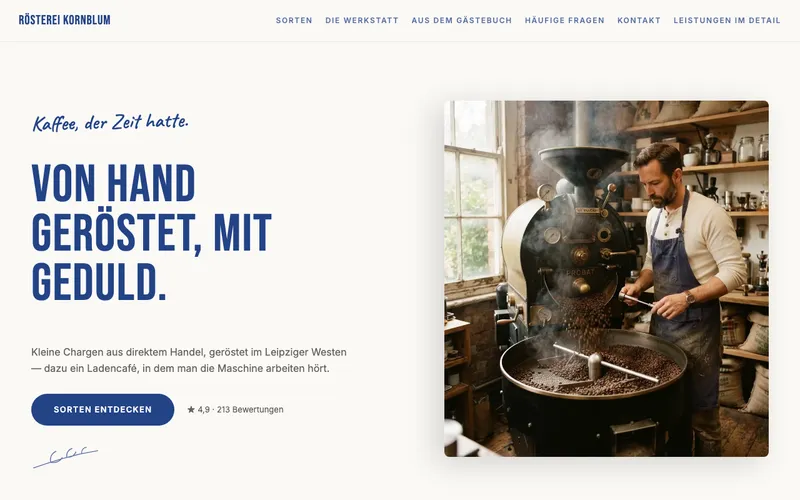
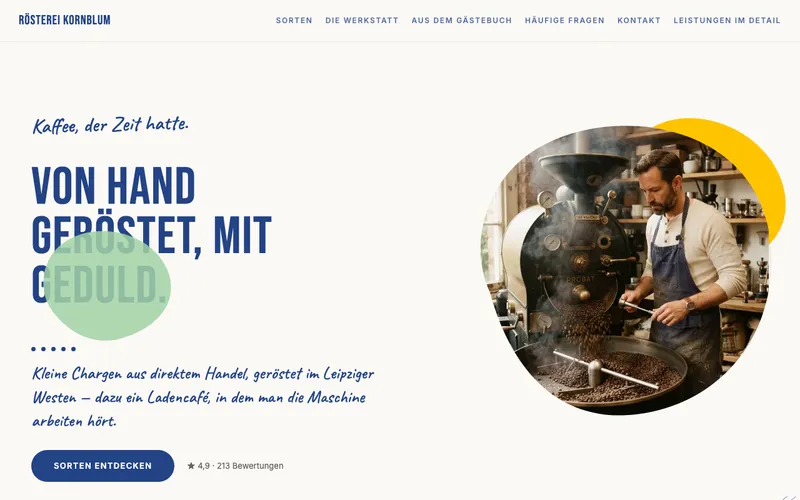
polish(ernte): Pa'lais-Signatur geschärft — organische Blob-Masken (clipPath), sichtbare Honig-/Mint-Blobs, Dots, Caveat-Unterzeile, große botanische Zweige

diff --git a/client/src/components/site/packs/ernte/css.ts b/client/src/components/site/packs/ernte/css.ts
@@ -7,22 +7,22 @@ export const ERNTE_CSS = `
 .pb-er-nav-links a{color:var(--pb-accent);opacity:.75;transition:opacity .15s}
 .pb-er-nav-links a:hover,.pb-er-nav-links a:focus-visible,.pb-er-nav-links a[aria-current="page"]{opacity:1}
 .pb-er-nav-links a[aria-current="page"]{border-bottom:2px solid var(--pb-accent-2)}
-.pb-er-hero{position:relative;display:grid;grid-template-columns:minmax(0,6.5fr) minmax(0,5.5fr);gap:48px;align-items:center;max-width:1180px;margin:0 auto;padding:72px 30px 88px}
+.pb-er-hero{position:relative;display:grid;grid-template-columns:minmax(0,6.5fr) minmax(0,5.5fr);gap:48px;align-items:center;max-width:1180px;margin:0 auto;padding:76px 30px 96px}\n.pb-er-hero>.pb-er-blob-sage{position:absolute;left:-160px;top:38%;width:280px;height:280px;inset:auto;z-index:0;opacity:.85}\n.pb-er-hero-deco{position:absolute;right:-30px;bottom:-34px;width:230px;height:184px;color:var(--pb-accent);opacity:.5;z-index:0;pointer-events:none}
 .pb-er-script{font-family:var(--pb-font-utility);font-size:clamp(1.5rem,2.6vw,2.1rem);color:var(--pb-accent);transform:rotate(-1.5deg);transform-origin:left}
 .pb-er-hero h1{margin-top:10px;font-family:var(--pb-font-display);font-weight:400;font-size:var(--pb-hero-size);line-height:.95;letter-spacing:.02em;text-transform:uppercase;color:var(--pb-accent);max-width:15ch}
 .pb-ernte .pb-rich-accent{font-style:normal;color:var(--pb-accent);box-shadow:inset 0 -0.28em 0 var(--pb-accent-2)}
-.pb-er-sub{margin-top:18px;max-width:50ch;color:var(--pb-muted);font-size:16px}
-.pb-er-hero-actions{display:flex;align-items:center;gap:20px;margin-top:28px;flex-wrap:wrap}
+.pb-er-sub{margin-top:16px;max-width:44ch;font-family:var(--pb-font-utility);font-size:clamp(1.35rem,2.2vw,1.8rem);line-height:1.35;color:var(--pb-accent)}
+.pb-er-dots{display:flex;gap:9px;margin-top:16px}\n.pb-er-dots i{width:7px;height:7px;border-radius:50%;background:var(--pb-accent)}\n.pb-er-hero-actions{display:flex;align-items:center;gap:20px;margin-top:26px;flex-wrap:wrap}
 .pb-ernte a.pb-er-cta{display:inline-block;padding:15px 36px;background:var(--pb-accent);color:var(--pb-accent-contrast);border-radius:var(--pb-radius-button);font-weight:600;font-size:13px;letter-spacing:.1em;text-transform:uppercase;transition:transform .18s,box-shadow .18s}
 .pb-er-cta:hover,.pb-er-cta:focus-visible{transform:translateY(-2px);box-shadow:0 14px 28px color-mix(in srgb,var(--pb-accent) 28%,transparent)}
 .pb-er-rating{font-size:13px;color:var(--pb-muted)}
-.pb-er-sprig{width:110px;height:38px;color:var(--pb-accent)}
+.pb-er-sprig{width:150px;height:120px;color:var(--pb-accent)}
 .pb-er-hero-sprig{display:block;margin-top:34px;opacity:.75}
 .pb-er-hero-media{position:relative}
-.pb-er-blob{position:absolute;inset:-8% -6%;width:112%;height:116%;z-index:0}
+.pb-er-blob{position:absolute;inset:-8% -6%;width:112%;height:116%;z-index:0}\n.pb-er-hero-media .pb-er-blob{inset:auto;right:-13%;top:-11%;width:74%;height:70%;transform:rotate(18deg)}
 .pb-er-blob path{fill:var(--pb-accent-2)}
 .pb-er-blob-sage path{fill:#A2D3A6}
-.pb-er-hero-media img{position:relative;z-index:1;display:block;width:100%;aspect-ratio:4/4.4;object-fit:cover;border-radius:var(--pb-radius-card);box-shadow:-14px 10px 49px rgba(0,0,0,.16)}
+.pb-er-hero-media img{position:relative;z-index:1;display:block;width:100%;aspect-ratio:4/4.1;object-fit:cover;clip-path:url(#pb-er-clip-a);filter:drop-shadow(-10px 12px 26px rgba(0,0,0,.14))}
 .pb-er-section{max-width:1180px;margin:0 auto;padding:72px 30px;border-top:1px solid var(--pb-line)}
 .pb-er-title{font-family:var(--pb-font-display);font-weight:400;font-size:clamp(1.8rem,3.2vw,2.6rem);letter-spacing:.03em;text-transform:uppercase;color:var(--pb-accent)}
 .pb-er-intro{margin-top:12px;max-width:56ch;color:var(--pb-muted)}
@@ -36,7 +36,7 @@ export const ERNTE_CSS = `
 .pb-er-about>p:only-child{grid-column:1/-1}
 .pb-er-about p{max-width:62ch;font-size:15.5px}
 .pb-er-media{position:relative;display:block}
-.pb-er-media img{position:relative;z-index:1;display:block;width:100%;aspect-ratio:4/3.4;object-fit:cover;border-radius:var(--pb-radius-card);box-shadow:-14px 10px 49px rgba(0,0,0,.12)}
+.pb-er-media img{position:relative;z-index:1;display:block;width:100%;aspect-ratio:4/3.6;object-fit:cover;clip-path:url(#pb-er-clip-b);filter:drop-shadow(-10px 12px 24px rgba(0,0,0,.12))}\n.pb-er-media .pb-er-blob{inset:auto;left:-9%;bottom:-11%;width:58%;height:58%;transform:rotate(-10deg)}
 .pb-er-gallery{display:grid;grid-template-columns:repeat(auto-fit,minmax(240px,1fr));gap:20px;margin-top:32px}
 .pb-er-gallery img{width:100%;aspect-ratio:4/3;object-fit:cover;border-radius:var(--pb-radius-card)}
 .pb-er-quotes{display:grid;grid-template-columns:repeat(auto-fit,minmax(250px,1fr));gap:20px;margin-top:32px}
@@ -66,7 +66,7 @@ export const ERNTE_CSS = `
 .pb-er-menu-row p{font-size:13.5px;color:var(--pb-muted);max-width:40ch}
 .pb-er-menu-row .pb-er-price{margin-left:auto;margin-top:0;flex-shrink:0;white-space:nowrap}
 .pb-er-team{display:grid;grid-template-columns:repeat(auto-fit,minmax(200px,1fr));gap:24px;margin-top:32px}
-.pb-er-member img{width:100%;aspect-ratio:1/1;object-fit:cover;border-radius:var(--pb-radius-card);margin-bottom:12px}
+.pb-er-member img{width:100%;aspect-ratio:1/1;object-fit:cover;clip-path:url(#pb-er-clip-b);margin-bottom:12px}
 .pb-er-member strong{display:block;font-weight:600}
 .pb-er-member p{font-size:13px;color:var(--pb-muted)}
 .pb-er-cta-section .pb-er-cta{margin-top:24px}
@@ -89,6 +89,6 @@ export const ERNTE_CSS = `
 @keyframes pb-er-up{from{opacity:0;transform:translateY(14px)}to{opacity:1;transform:none}}
 @keyframes pb-er-bloom{from{transform:scale(.85);opacity:0}to{transform:none;opacity:1}}
 @media(prefers-reduced-motion:reduce){.pb-ernte *,.pb-ernte *::before,.pb-ernte *::after{animation:none!important;transition:none!important}}
-@media(max-width:880px){.pb-er-nav{padding:14px 18px}.pb-er-nav-links{display:none}.pb-er-hero{grid-template-columns:1fr;gap:36px;padding:44px 18px 60px}.pb-er-section{padding:52px 18px}.pb-er-about{grid-template-columns:1fr;gap:26px}.pb-er-about .pb-er-media{order:-1;max-width:420px}}
+@media(max-width:880px){.pb-er-nav{padding:14px 18px}.pb-er-nav-links{display:none}.pb-er-hero{grid-template-columns:1fr;gap:36px;padding:44px 18px 72px}.pb-er-hero>.pb-er-blob-sage{left:-120px;top:auto;bottom:24%;width:200px;height:200px}.pb-er-hero-deco{right:-16px;bottom:-20px;width:160px;height:128px}.pb-er-section{padding:52px 18px}.pb-er-about{grid-template-columns:1fr;gap:26px}.pb-er-about .pb-er-media{order:-1;max-width:420px}}
 @media(max-width:390px){.pb-er-hero{padding-left:14px;padding-right:14px}.pb-er-section{padding-left:14px;padding-right:14px}}
 `;

diff --git a/client/src/components/site/packs/ernte/index.tsx b/client/src/components/site/packs/ernte/index.tsx
@@ -71,22 +71,76 @@ function Blob({ tone }: { tone: "honey" | "sage" }) {
   );
 }
 
-/** Botanische Linien-Illustration (Zweig) in Indigo, 1.5px, ohne Füllung. */
+/**
+ * Botanische Linien-Illustration in Indigo — 1.5px Outline ohne Füllung,
+ * bewusst groß und über Ränder blutend (Pa'lais-Signatur: „Living
+ * Illustration").
+ */
 function Sprig({ className }: { className?: string }) {
   return (
     <svg
       className={className}
-      viewBox="0 0 120 40"
+      viewBox="0 0 200 160"
       fill="none"
       aria-hidden="true"
     >
       <path
-        d="M4 36C34 26 66 14 116 6M34 26c-2-8 2-16 9-19M34 26c8 2 16-1 20-8M62 17c-1-7 3-13 9-15M62 17c7 1 13-2 16-9M88 10c0-5 3-9 8-10"
+        d="M18 152C58 118 96 78 178 18M70 110c-8-18-4-38 10-50M70 110c18 6 38 0 48-16M112 74c-4-16 2-32 16-40M112 74c16 4 32-2 40-16M146 44c-2-12 4-22 14-26M146 44c12 2 22-2 28-12"
         stroke="currentColor"
         strokeWidth="1.5"
         strokeLinecap="round"
       />
+      <path
+        d="M80 100c-10 2-16 10-16 18M104 82c-10 0-18 6-20 14M132 58c-8-2-16 2-20 8"
+        stroke="currentColor"
+        strokeWidth="1.5"
+        strokeLinecap="round"
+        opacity=".55"
+      />
     </svg>
+  );
+}
+
+/**
+ * Organische Bild-Masken (Pa'lais: „wilde Ränder"): zwei Blob-Pfade als
+ * clipPath in objectBoundingBox-Einheiten (scale 1/200 des 200er-Pfads),
+ * einmal pro Seite unsichtbar definiert — CSS referenziert sie per url(#…).
+ */
+function BlobDefs() {
+  return (
+    <svg
+      aria-hidden="true"
+      focusable="false"
+      style={{ position: "absolute", width: 0, height: 0 }}
+    >
+      <defs>
+        <clipPath id="pb-er-clip-a" clipPathUnits="objectBoundingBox">
+          <path
+            transform="scale(0.005)"
+            d="M28 104C14 74 26 34 60 16c34-18 82-16 112 6 30 22 36 62 24 96-12 34-44 58-84 60-40 2-70-24-84-74Z"
+          />
+        </clipPath>
+        <clipPath id="pb-er-clip-b" clipPathUnits="objectBoundingBox">
+          <path
+            transform="scale(0.005) rotate(160 100 100)"
+            d="M28 104C14 74 26 34 60 16c34-18 82-16 112 6 30 22 36 62 24 96-12 34-44 58-84 60-40 2-70-24-84-74Z"
+          />
+        </clipPath>
+      </defs>
+    </svg>
+  );
+}
+
+/** Punkte-Reihe unter der Headline — kleines Pa'lais-Markenzeichen. */
+function Dots() {
+  return (
+    <span className="pb-er-dots" aria-hidden="true">
+      <i />
+      <i />
+      <i />
+      <i />
+      <i />
+    </span>
   );
 }
 
@@ -364,6 +418,7 @@ const ErntePage: React.FC<{
 
   return (
     <div className="pb-ernte">
+      <BlobDefs />
       <nav className="pb-er-nav">
         <span className="pb-er-logo">{renderLogo(data)}</span>
         <div className="pb-er-nav-links">
@@ -381,12 +436,15 @@ const ErntePage: React.FC<{
       </nav>
       {hero && (
         <section id={SECTION_ANCHORS.hero} className="pb-er-hero">
+          <Blob tone="sage" />
+          <Sprig className="pb-er-sprig pb-er-hero-deco" />
           <div className="pb-er-hero-copy" data-pb-slot={LAYOUT_SLOT.heroCopy}>
             {/* Script-Zeile nur, wenn sie nicht bloß die Headline dupliziert. */}
             {data.tagline && data.tagline !== hero.headline && (
               <p className="pb-er-script">{data.tagline}</p>
             )}
             <h1>{renderHeadline(hero.headline)}</h1>
+            <Dots />
             {hero.subheadline && (
               <p className="pb-er-sub">{rich(hero.subheadline)}</p>
             )}
@@ -403,7 +461,6 @@ const ErntePage: React.FC<{
                 </span>
               )}
             </div>
-            <Sprig className="pb-er-sprig pb-er-hero-sprig" />
           </div>
           {hero.imageUrl && (
             <div className="pb-er-hero-media">
